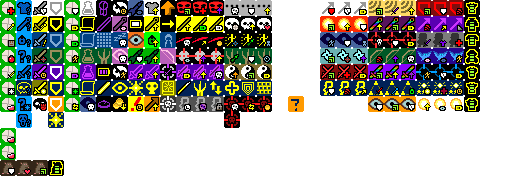
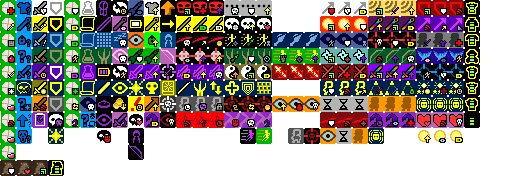
资源补充，测试完善

Changed region(s): [[0.0, 0.5398, 0.9375, 0.9091], [0.5312, 0.1705, 0.625, 0.4545]]

diff --git a/core/src/main/java/com/shatteredpixel/shatteredpixeldungeon/actors/hero/HeroClass.java b/core/src/main/java/com/shatteredpixel/shatteredpixeldungeon/actors/hero/HeroClass.java
@@ -63,6 +63,7 @@ import com.shatteredpixel.shatteredpixeldungeon.custom.testmode.generator.TestMi
 import com.shatteredpixel.shatteredpixeldungeon.custom.testmode.generator.TestPotion;
 import com.shatteredpixel.shatteredpixeldungeon.custom.testmode.generator.TestRing;
 import com.shatteredpixel.shatteredpixeldungeon.custom.testmode.generator.TestValue;
+import com.shatteredpixel.shatteredpixeldungeon.items.artifacts.BoxCap;
 import com.shatteredpixel.shatteredpixeldungeon.items.BrokenSeal;
 import com.shatteredpixel.shatteredpixeldungeon.items.Compass;
 import com.shatteredpixel.shatteredpixeldungeon.items.Item;
@@ -89,17 +90,20 @@ import com.shatteredpixel.shatteredpixeldungeon.items.weapon.melee.MagesStaff;
 import com.shatteredpixel.shatteredpixeldungeon.items.weapon.melee.Rapier;
 import com.shatteredpixel.shatteredpixeldungeon.items.weapon.melee.WornShortsword;
 import com.shatteredpixel.shatteredpixeldungeon.items.weapon.melee.tier1.JianDun;
-import com.shatteredpixel.shatteredpixeldungeon.items.weapon.melee.tier2.DuoHunZhua;
 import com.shatteredpixel.shatteredpixeldungeon.items.weapon.melee.tier1.YeYingDao;
 import com.shatteredpixel.shatteredpixeldungeon.items.weapon.melee.tier2.TenMu_1;
+import com.shatteredpixel.shatteredpixeldungeon.items.weapon.melee.tier3.BatWing;
 import com.shatteredpixel.shatteredpixeldungeon.items.weapon.melee.tier3.ShouNu;
 import com.shatteredpixel.shatteredpixeldungeon.items.weapon.melee.tier3.YongYan;
-import com.shatteredpixel.shatteredpixeldungeon.items.weapon.melee.tier3.ZhanHunDao;
+import com.shatteredpixel.shatteredpixeldungeon.items.weapon.melee.tier4.DmFlail;
+import com.shatteredpixel.shatteredpixeldungeon.items.weapon.melee.tier4.MonkFist;
 import com.shatteredpixel.shatteredpixeldungeon.items.weapon.melee.tier4.NingBing;
-import com.shatteredpixel.shatteredpixeldungeon.items.weapon.melee.tier4.SuoHunLian;
+import com.shatteredpixel.shatteredpixeldungeon.items.weapon.melee.tier5.DmDrill;
 import com.shatteredpixel.shatteredpixeldungeon.items.weapon.melee.tier5.GongChengNu;
+import com.shatteredpixel.shatteredpixeldungeon.items.weapon.melee.tier5.KingSword;
 import com.shatteredpixel.shatteredpixeldungeon.items.weapon.melee.tier5.LeiMing;
-import com.shatteredpixel.shatteredpixeldungeon.items.weapon.melee.tier5.SheHunCi;
+import com.shatteredpixel.shatteredpixeldungeon.items.weapon.melee.tier5.RidgeSword;
+import com.shatteredpixel.shatteredpixeldungeon.items.weapon.melee.tier5.ScorpioTail;
 import com.shatteredpixel.shatteredpixeldungeon.items.weapon.missiles.ThrowingKnife;
 import com.shatteredpixel.shatteredpixeldungeon.items.weapon.missiles.ThrowingSpike;
 import com.shatteredpixel.shatteredpixeldungeon.items.weapon.missiles.ThrowingStone;
@@ -386,16 +390,32 @@ public enum HeroClass {
 		new ScrollOfAbility().quantity(100).collect();
 		new ScrollOfUpgrade().quantity(10).collect();
 		new Stithy().collect();
-		new TenMu_1().identify().collect();
-		new YongYan().identify().collect();
-		new NingBing().identify().collect();
-		new LeiMing().identify().collect();
-		new ShouNu().identify().collect();
-		new GongChengNu().identify().collect();
-		new DuoHunZhua().identify().collect();
-		new ZhanHunDao().identify().collect();
-		new SheHunCi().identify().collect();
-		new SuoHunLian().identify().collect();
+//		new TenMu_1().identify().collect();
+//		new YongYan().identify().collect();
+//		new NingBing().identify().collect();
+//		new LeiMing().identify().collect();
+//		new ShouNu().identify().collect();
+//		new GongChengNu().identify().collect();
+//		new DuoHunZhua().identify().collect();
+//		new ZhanHunDao().identify().collect();
+//		new SheHunCi().identify().collect();
+//		new SuoHunLian().identify().collect();
+//		new Teeth().quantity(10).collect();
+//		new Flesh().quantity(10).collect();
+//		new Blood().quantity(10).collect();
+//		new Ashes().quantity(10).collect();
+//		new Soul().quantity(10).collect();
+//		new Honey().quantity(10).collect();
+//		new StatueHead().quantity(10).collect();
+		new BoxCap().collect();
+		new RidgeSword().identify().collect();
+		new BatWing().identify().collect();
+		new DmDrill().identify().collect();
+		new DmFlail().identify().collect();
+		new MonkFist().identify().collect();
+		new KingSword().identify().collect();
+		new ScorpioTail().identify().collect();
+
 
 
 

diff --git a/core/src/main/java/com/shatteredpixel/shatteredpixeldungeon/custom/testmode/generator/LazyTest.java b/core/src/main/java/com/shatteredpixel/shatteredpixeldungeon/custom/testmode/generator/LazyTest.java
@@ -5,9 +5,11 @@ import com.shatteredpixel.shatteredpixeldungeon.custom.testmode.StrengthSetting;
 import com.shatteredpixel.shatteredpixeldungeon.items.EnergyCrystal;
 import com.shatteredpixel.shatteredpixeldungeon.items.Gold;
 import com.shatteredpixel.shatteredpixeldungeon.items.Honeypot;
+import com.shatteredpixel.shatteredpixeldungeon.items.KingsCrown;
 import com.shatteredpixel.shatteredpixeldungeon.items.TengusMask;
 import com.shatteredpixel.shatteredpixeldungeon.items.Torch;
 import com.shatteredpixel.shatteredpixeldungeon.items.armor.PlateArmor;
+import com.shatteredpixel.shatteredpixeldungeon.items.artifacts.AlchemistsToolkit;
 import com.shatteredpixel.shatteredpixeldungeon.items.bombs.Bomb;
 import com.shatteredpixel.shatteredpixeldungeon.items.food.Food;
 import com.shatteredpixel.shatteredpixeldungeon.items.food.Pasty;
@@ -113,6 +115,10 @@ public class LazyTest extends TestGenerator {
             greatsword.level(15);
             greatsword.identify().collect();
 
+            AlchemistsToolkit toolkit=new AlchemistsToolkit();
+            toolkit.level(10);
+            toolkit.identify().collect();
+
             new Gold().quantity(16000000).doPickUp(hero);
 
             new EnergyCrystal().quantity(10000).doPickUp(hero);
@@ -125,8 +131,9 @@ public class LazyTest extends TestGenerator {
 
             new Bomb().quantity(100).collect();
 
-            //new TomeOfMastery().collect();
+
             new TengusMask().collect();
+            new KingsCrown().collect();
 
             new Honeypot().quantity(100).collect();
 
@@ -155,17 +162,12 @@ public class LazyTest extends TestGenerator {
             new Sungrass.Seed().quantity(100).identify().collect();
             new Swiftthistle.Seed().quantity(100).identify().collect();
 
-            for (int i = 0; i < 6; i++) {
-                new PotionOfStrength().apply(hero);
-            }
-
             RingOfAccuracy roa = new RingOfAccuracy();
             roa.level(22);
             roa.identify().collect();
 
             new ScrollOfPsionicBlast().quantity(100).identify().collect();
             new PotionOfCleansing().quantity(100).identify().collect();
-
             new GooBlob().quantity(100).collect();
             new MetalShard().quantity(100).collect();
             new InfernalBrew().quantity(100).collect();
